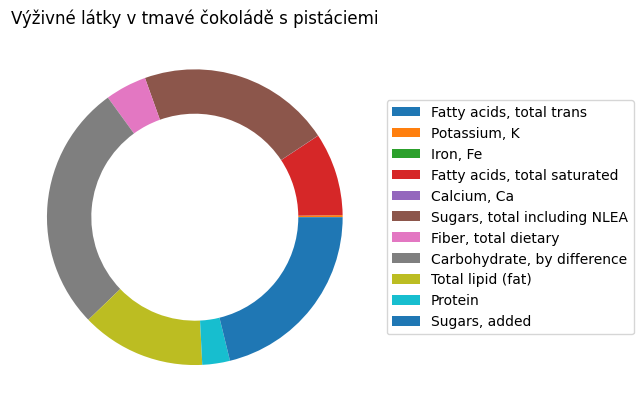
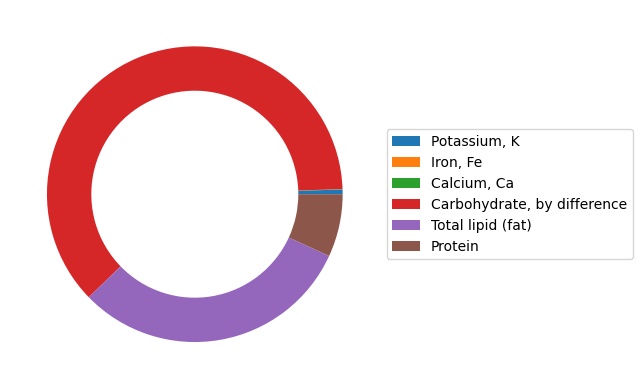
Bonusový příklad k vizualizacím (#109)

Changed region(s): [[0.0623, 0.0925, 0.5607, 0.8946], [0.5919, 0.2468, 0.9969, 0.8021], [0.0, 0.0, 0.5919, 0.0617]]

diff --git a/python-pro-data-1/vizualizace/excs/podgrafy/exercise.md b/python-pro-data-1/vizualizace/excs/podgrafy/exercise.md
@@ -1,0 +1,33 @@
+---
+title: Podgrafy
+demand: 3
+---
+
+`matplotlib`, na kterém je `seaborn` postavený, umí vytvářet :term{cs="podgrafy" en="subplot"}, což znamená vložení více grafů do jednoho obrázku. Můžeme například ke grafu s průměrným množstvím proteinů v kategoriích potravin přidat graf s průměrným množstvím karbohydrátů.
+
+Na začátku je potřeba přidat import `matplotlib`, abychom ho mohli využít ke tvorbě podgrafů.
+
+```py
+import matplotlib.pyplot as plt
+```
+
+Použijeme funkci `subplots`. První parametr znamená, kolik podgrafů chceme vytvořit na výšku, a druhý parametr, kolik na šířku. Pokud bychom chtěli dva grafy vedle sebe, použijeme hodnoty 1 a 2. Nakonec přidáme parametr `sharey`, aby oba grafy sdílely svislou osu grafu a neopakovaly se nám zbytečně názvy kategorií u obou grafů.
+
+Funkce vrací několik hodnot. `fig` reprezentuje celý obrázek, `ax1` a `ax2` reprezentuje tzv. :term{cs="osy" en="axis"} grafu. Každá z podgrafů má svoji osu, tj. pokud máme dva podgrafy, budeme mít dvě osy.
+
+```py
+fig, (ax1, ax2) = plt.subplots(1, 2, sharey=True)
+```
+
+Data z tabulky `food_merged_brands_protein` vložíme do jednoho z podgrafů. Zápis je stejný jako během lekce, pouze do prvního řádku přidáme parametr `ax` a k němu hodnotu `ax1`, čímž zařídíme, že se tento graf vloží do prvního podgrafu. Popisek vodorovné osy nastavíme s využitím metody `set_xlabel` pro osu `ax1`.
+
+```py
+sns.barplot(food_merged_brands_protein, y="branded_food_category", x="amount", ax=ax1)
+ax1.set_xlabel("Množství proteinů (g)")
+```
+
+Vytvoř tabulku `food_merged_brands_carb`, která z tabulky `food_merged_brands` vybere řádky, kde je ve sloupci `nutrient_name` hodnota `Carbohydrate, by difference`. Přidej graf, který zobrazuje průměrné množství karbohydrátů v jednotlivých kategoriích, jako druhý podgraf. Kód bude stejný jako v případě prvního podgrafu, pouze vyměň tabulku a použij osu `ax2`.
+
+::fig[Přiklad výsledku]{src=assets/output.png}
+
+Pokud ti připadá, že graf data zkresluje tím, že každý podgraf má svůj rozsah vodorovné osy, vyzkoušej parametr `sharex` u funkce `subplots()`.

diff --git a/python-pro-data-1/vizualizace/excs/donut/exercise.md b/python-pro-data-1/vizualizace/excs/donut/exercise.md
@@ -9,7 +9,11 @@ Nyní si zkus vytvořit :term{cs="prstencový graf" en="donut chart"}. Tento gra
 import matplotlib.pyplot as plt
 ```
 
-Vyzkoušíme si pomocí prstencového grafu zobrazit poměr výživných látek, a to konkrétně pro čokoládu s `fdc_id` 885174. Vytvoř tedy tabulku `data_pie_plot` (použij prosím tento název, aby ti fungovalo doplnění do kódu níže), do které ulož z tabulky `food_merged_brands` řádky z `fdc_id` rovné 885174. Dále ponech v tabulce pouze řádky, které ve sloupci `nutrient_name` nemají hodnotu `Energy`, protože nás zajímají výživné látky jako proteiny atd.
+Vyzkoušíme si pomocí prstencového grafu zobrazit poměr výživných látek, a to konkrétně pro čokoládu s `fdc_id` 885174. Vytvoř tedy tabulku `data_pie_plot` (použij prosím tento název, aby ti fungovalo doplnění do kódu níže), do které ulož z tabulky `food_merged_brands` řádky z `fdc_id` rovné 885174 (tmavá čokoláda s pistáciemi). Dále ponech v tabulce pouze řádky, které ve sloupci `nutrient_name` mají hodnotu z následujícího seznamu. Jinak totiž hrozí, že bychom některé výživné látky měli započítané dvakrát (např. protože vláknina a cukr patří mezi karbohydráty).
+
+```py
+["Carbohydrate, by difference", "Total lipid (fat)", "Protein", "Potassium, K", "Iron, Fe", "Calcium, Ca"]
+```
 
 Aby graf nebyl zkreslený, je potřeba převést všechna data na stejné jednotky, např. na grafy. To uděláme ve třech krocích.
 
@@ -46,7 +50,5 @@ ax.legend(__________, loc="center left", bbox_to_anchor=(1, 0.5))
 ```
 
 Nakonec nastav nadpis grafu. Pomocí metody `ax.set_title` nastav nadpis, do volání metody vlož nadpis, který by se ti pro graf líbil. 
-
-Příklad výsledku najdeš níže.
 
 ::fig[Přiklad výsledku]{src=assets/output.png}

diff --git a/python-pro-data-1/vizualizace/excs.md b/python-pro-data-1/vizualizace/excs.md
@@ -5,4 +5,5 @@
 
 ### Bonusy
 
+::exc[excs/podgrafy]
 ::exc[excs/donut]
